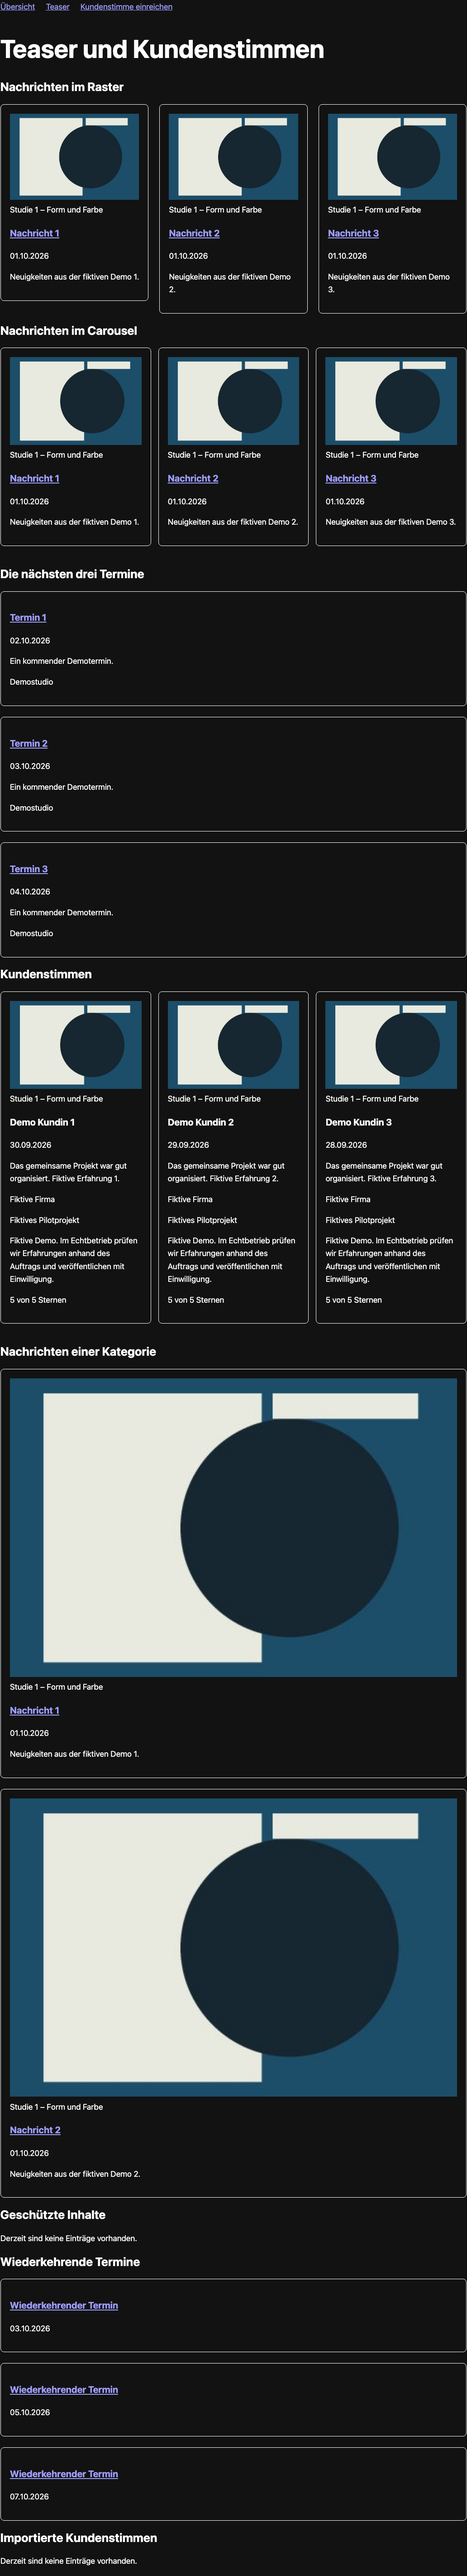
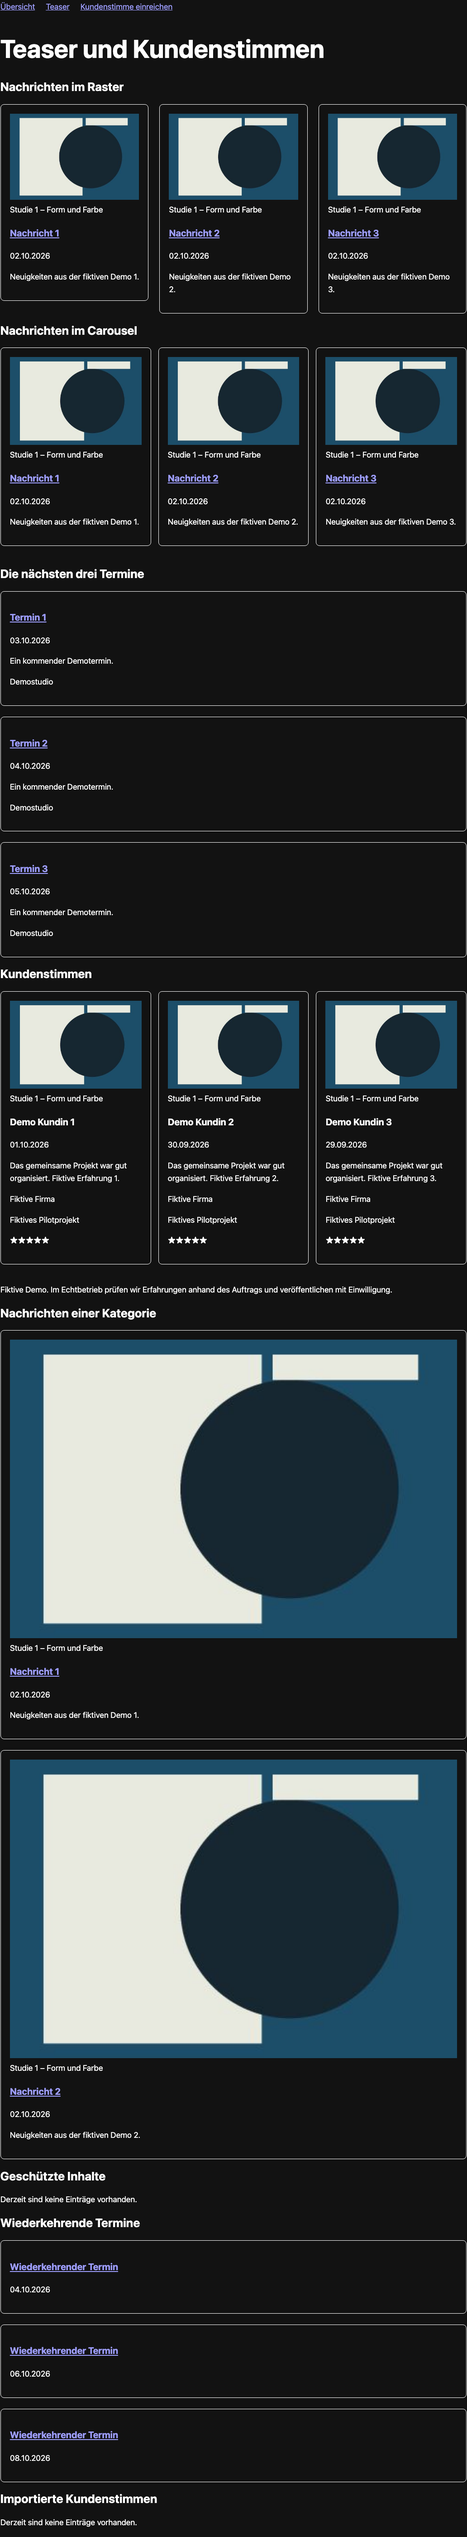
release(teasers, testimonials): 0.1.0 with read-only splits

Changed region(s): [[0.0, 0.0312, 0.9922, 1.0], [0.6822, 0.0312, 0.9612, 0.2188], [0.3411, 0.0312, 0.6202, 0.2188]]

diff --git a/e2e/teasers.spec.ts b/e2e/teasers.spec.ts
@@ -128,7 +128,9 @@ test("submission, consent, CSRF, mail and backend moderation work without JavaSc
     const replay = await page.request.post("/submit.html", { form: submitted });
     expect(await replay.text()).toContain("bereits gesendet");
     expect(fixture("inspect", name).id).toBe(record.id);
-    const mail = await request.get(`http://127.0.0.1:${process.env.CONTAO_UI_MAIL_PORT ?? "8131"}/api/v1/messages`);
+    const mail = await request.get(
+      `http://127.0.0.1:${process.env.CONTAO_UI_MAIL_PORT ?? "8131"}/api/v1/messages`,
+    );
     expect(
       (await mail.json()).messages.some(
         (message: { Subject: string }) => message.Subject === "Neue Kundenstimme zur Prüfung",

diff --git a/docs/releasing.md b/docs/releasing.md
@@ -17,19 +17,21 @@ Nach Veröffentlichung können die Pakete über den Contao Manager/Packagist ins
 
 ## Vorgesehener Split, noch nicht ausführen
 
-| Monorepo-Pfad       | Vorgesehenes Read-only-Repository | Composer-Paket                    |
-| ------------------- | --------------------------------- | --------------------------------- |
-| `packages/carousel` | `studio-nordwerk/contao-carousel` | `nordwerk/contao-carousel-bundle` |
-| `packages/sheet`    | `studio-nordwerk/contao-sheet`    | `nordwerk/contao-sheet-bundle`    |
-| `packages/gallery`  | `studio-nordwerk/contao-gallery`  | `nordwerk/contao-gallery-bundle`  |
-| `packages/sections` | `studio-nordwerk/contao-sections` | `nordwerk/contao-sections-bundle` |
+| Monorepo-Pfad           | Vorgesehenes Read-only-Repository     | Composer-Paket                        |
+| ----------------------- | ------------------------------------- | ------------------------------------- |
+| `packages/carousel`     | `studio-nordwerk/contao-carousel`     | `nordwerk/contao-carousel-bundle`     |
+| `packages/sheet`        | `studio-nordwerk/contao-sheet`        | `nordwerk/contao-sheet-bundle`        |
+| `packages/gallery`      | `studio-nordwerk/contao-gallery`      | `nordwerk/contao-gallery-bundle`      |
+| `packages/sections`     | `studio-nordwerk/contao-sections`     | `nordwerk/contao-sections-bundle`     |
+| `packages/teasers`      | `studio-nordwerk/contao-teasers`      | `nordwerk/contao-teasers-bundle`      |
+| `packages/testimonials` | `studio-nordwerk/contao-testimonials` | `nordwerk/contao-testimonials-bundle` |
 
 Das Monorepo bleibt die einzige Schreibquelle. Ein späterer, gesondert autorisierter Workflow kann nach beiden Checks für jedes Paket `git subtree split --prefix=packages/<paket>` erzeugen und diese Commits mit einem auf die drei Ziele begrenzten Token pushen. Tags erst nach erfolgreichem Split synchronisieren, anschließend die Read-only-Repositories bei Packagist anmelden. Keine Remotes oder Token sind hier eingerichtet, kein Split wurde ausgeführt.
 
-Versionen zunächst gemeinsam (0.1.x), damit die Galerie-Abhängigkeiten zu beiden Bundles passen. Abschnitte kam am 02.10.2026 als 0.1.0 dazu und verlangt Carousel `^0.1`. Bei unabhängigem Versionieren nur die tatsächlich benötigten Mindestversionen erhöhen. Release-Version und PHP-/Contao-Grenzen müssen in allen drei Composer-Dateien, CHANGELOGs und Manager-Artefakten übereinstimmen. Die Root-CI bleibt im Monorepo; Paket-Exports benötigen keinen eigenen Build.
+Versionen zunächst gemeinsam (0.1.x), damit die Galerie-Abhängigkeiten zu beiden Bundles passen. Abschnitte, Teaser und Kundenstimmen kamen am 02.10.2026 als 0.1.0 dazu; Abschnitte und Teaser verlangen Carousel `^0.1`, Kundenstimmen Teaser `^0.1`. Bei unabhängigem Versionieren nur die tatsächlich benötigten Mindestversionen erhöhen. Release-Version und PHP-/Contao-Grenzen müssen in allen drei Composer-Dateien, CHANGELOGs und Manager-Artefakten übereinstimmen. Die Root-CI bleibt im Monorepo; Paket-Exports benötigen keinen eigenen Build.
 
 ## Assets und Screenshots
 
 `make assets` holt exakt die gepinnten npm-Tarballs und prüft Integrität sowie jede Datei aus `assets.lock.json`. `python3 scripts/asset-sizes.py` misst tatsächlich ausgelieferte, einzeln gzippte Dateien inklusive der statischen ESM-Importe. Keine zusätzliche Minifizierung oder Nachimplementierung der OSS-Dateien. Bei Wrapper-Änderungen README-Größen neu messen.
 
-`vp exec playwright test e2e/release.spec.ts` erstellt überprüfte Frontend-Screenshots in den Paket-`docs/`-Verzeichnissen (je Hell/Dunkel) sowie Backend-Nachweise unter `test-results/`. Die Testbilder sind selbst erzeugte geometrische Studien. Integrationstext in allen drei Paket-`docs/integration.md` ist eine Kopie von `docs/integration.md` für eigenständige Exports; bei Vertragsänderungen alle Kopien aktualisieren. Der Artefaktcheck prüft die Kopien gegen die Quelle.
+`vp exec playwright test e2e/release.spec.ts` erstellt überprüfte Frontend-Screenshots in den Paket-`docs/`-Verzeichnissen (je Hell/Dunkel) sowie Backend-Nachweise unter `test-results/`. Die Testbilder sind selbst erzeugte geometrische Studien. Integrationstext in Carousel, Sheet, Galerie und Abschnitte (`docs/integration.md`) ist eine Kopie von `docs/integration.md` für eigenständige Exports; Teaser und Kundenstimmen haben eigene Integrationsverträge; bei Vertragsänderungen alle Kopien aktualisieren. Der Artefaktcheck prüft die Kopien gegen die Quelle.

diff --git a/packages/testimonials/README.md b/packages/testimonials/README.md
@@ -16,9 +16,6 @@ composer require nordwerk/contao-testimonials-bundle
 php bin/console contao:migrate --no-interaction
 ```
 
-Noch unveröffentlicht: Bis zur Veröffentlichung lokale Path-Repositories für
-Testimonials, Teasers und Carousel mit `0.1.x-dev` verwenden; siehe Demo-Manifest.
-
 1. Unter **Inhalte → Kundenstimmen** ein Archiv anlegen. Die öffentlichen Hinweise
    erklären, ob und wie die Erfahrungen geprüft werden; sie erscheinen bei den Karten.
 2. Frontend-Modul **Kundenstimme einreichen** anlegen: Zielarchiv, Mail-Empfängerin,

diff --git a/packages/teasers/README.md b/packages/teasers/README.md
@@ -16,10 +16,6 @@ composer require nordwerk/contao-teasers-bundle
 php bin/console contao:migrate --no-interaction
 ```
 
-Noch unveröffentlicht: Composer benötigt bis zur ersten Veröffentlichung lokale
-Path-Repositories für `packages/teasers` und `packages/carousel` mit Version
-`0.1.x-dev` (siehe Demo-Manifest). Es wurden keine Pakete veröffentlicht.
-
 News-, Calendar- und Carousel-Bundle werden als Abhängigkeiten installiert.
 Kundenstimmen kommen separat aus `nordwerk/contao-testimonials-bundle`.
 

diff --git a/packages/testimonials/CHANGELOG.md b/packages/testimonials/CHANGELOG.md
@@ -1,6 +1,6 @@
 # Changelog
 
-## Unreleased
+## 0.1.0 – 2026-10-02
 
 - Bind consent evidence to the issued token; retain base paths and query strings on POST/redirect.
 - Generate unique field IDs for repeated module renders while preserving the submission identifier.

diff --git a/packages/teasers/CHANGELOG.md b/packages/teasers/CHANGELOG.md
@@ -1,6 +1,6 @@
 # Changelog
 
-## Unreleased
+## 0.1.0 – 2026-10-02
 
 - Apply Contao news/calendar archive permissions to backend choices.
 - Reject source keys exceeding the DCA's 64-character capacity and document a complete third-party source service.
